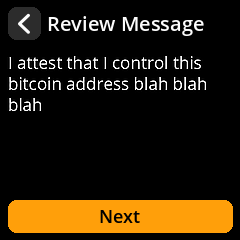
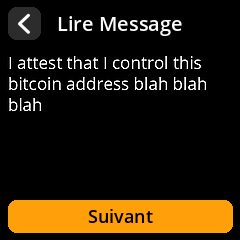
update

Changed region(s): [[0.175, 0.0583, 0.8458, 0.175], [0.35, 0.875, 0.6417, 0.9333]]

diff --git a/fr/README.md b/fr/README.md
@@ -1,5 +1,5 @@
 # SeedSigner Screenshots: French
-## Translation progress: 111.1%
+## Translation progress: 110.9%
 
 [French messages.po catalog](messages.po)
 ---
